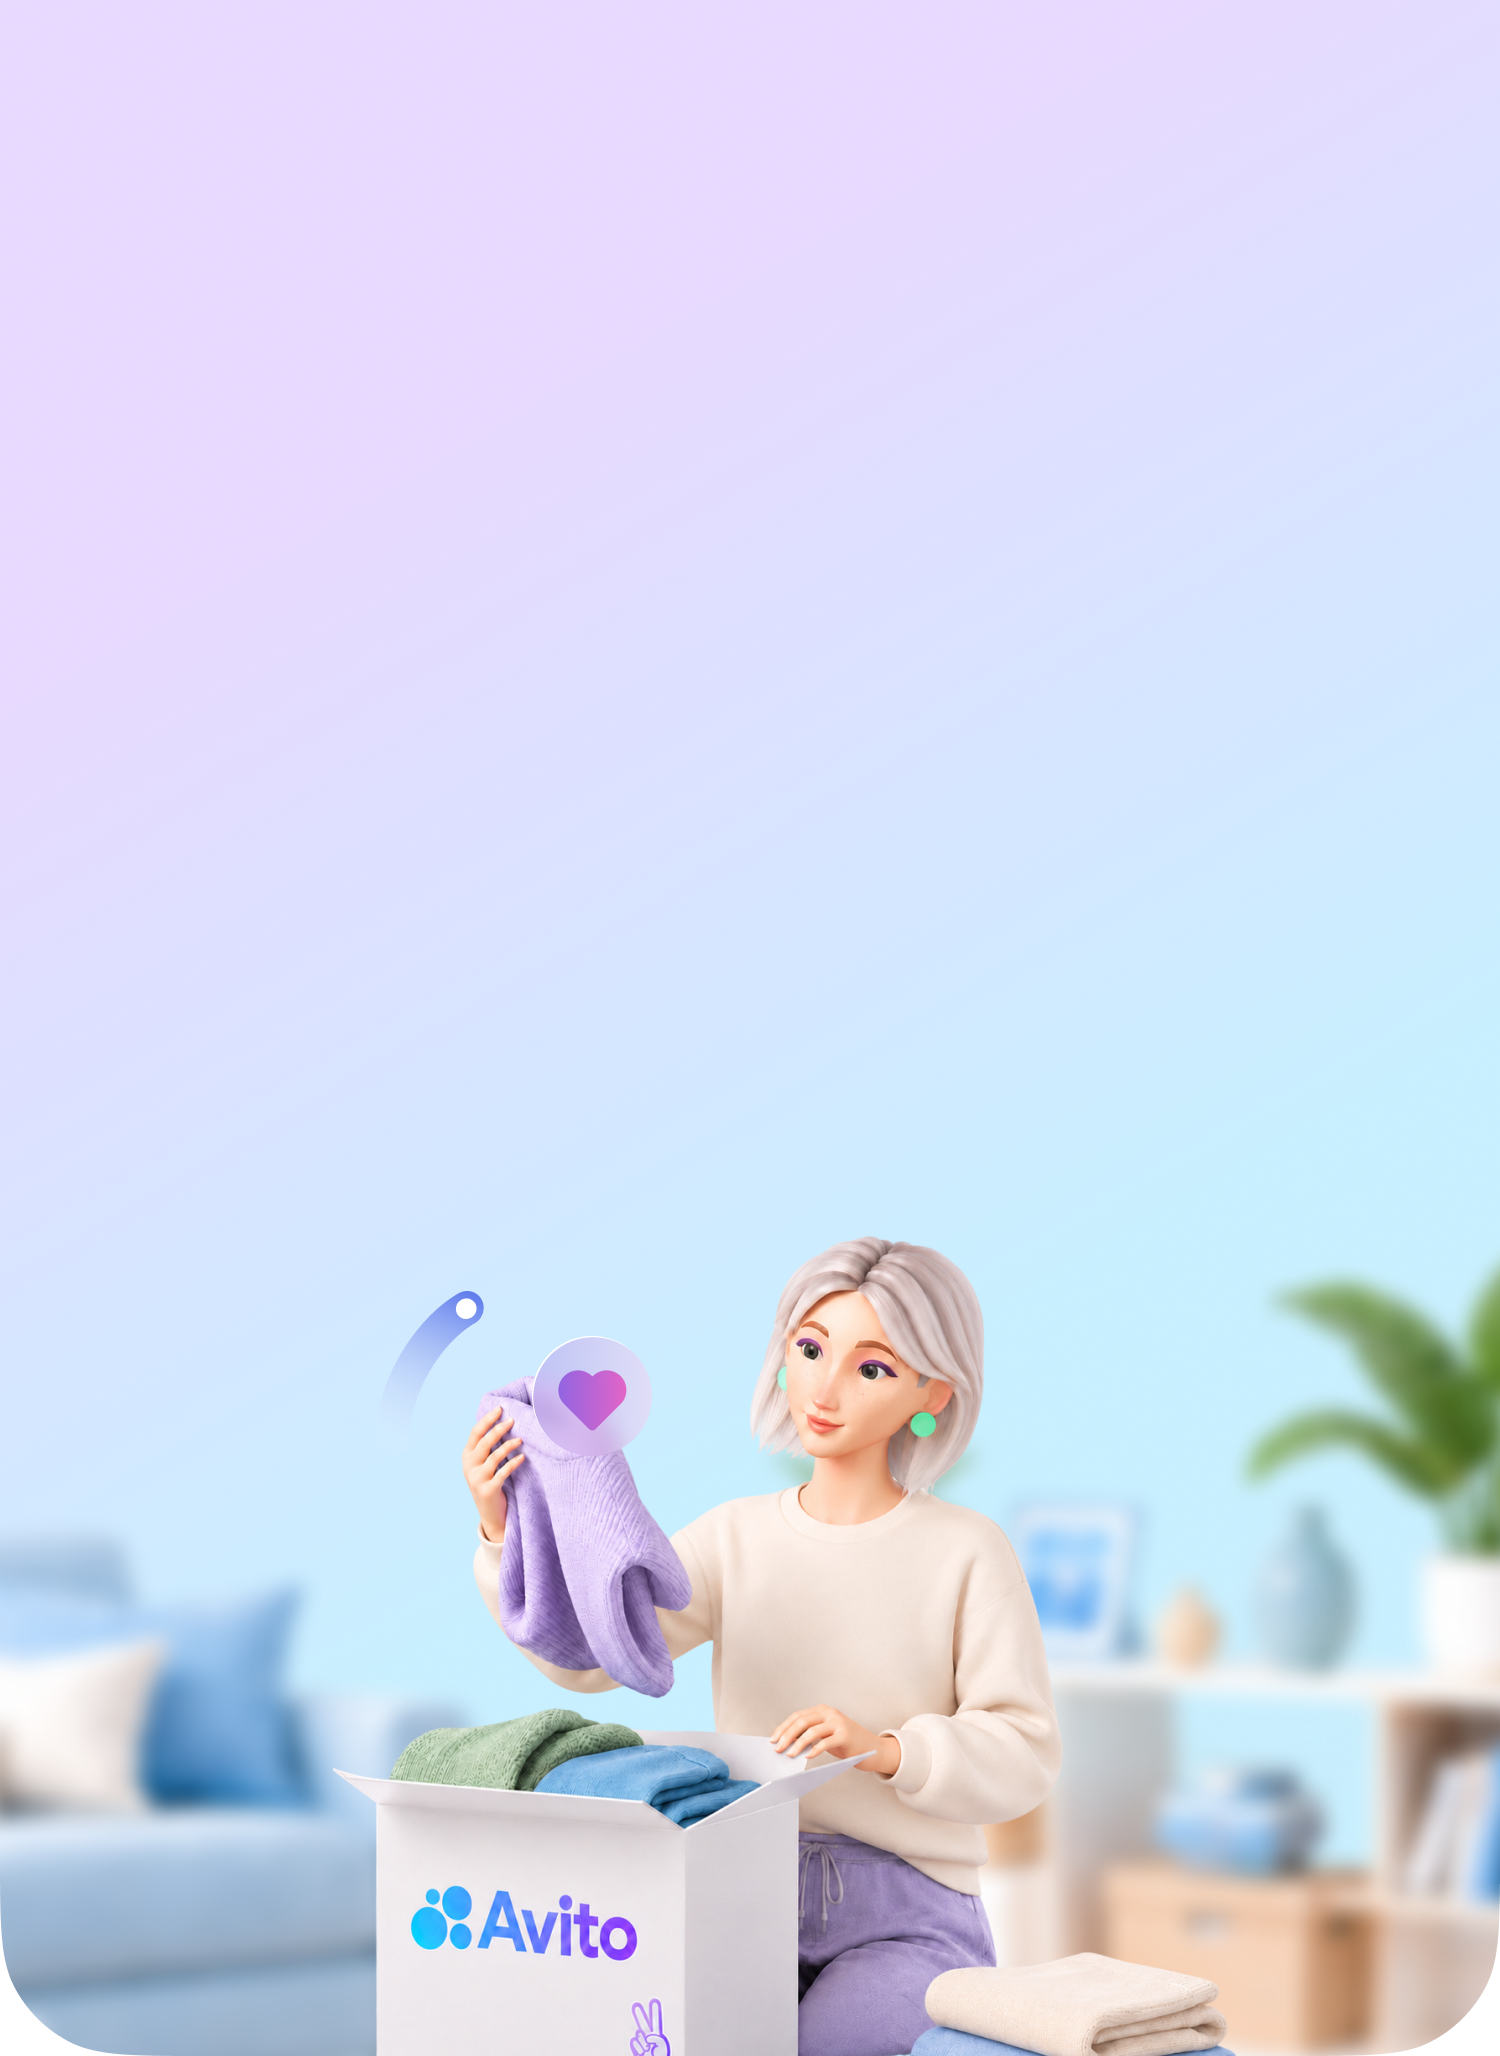
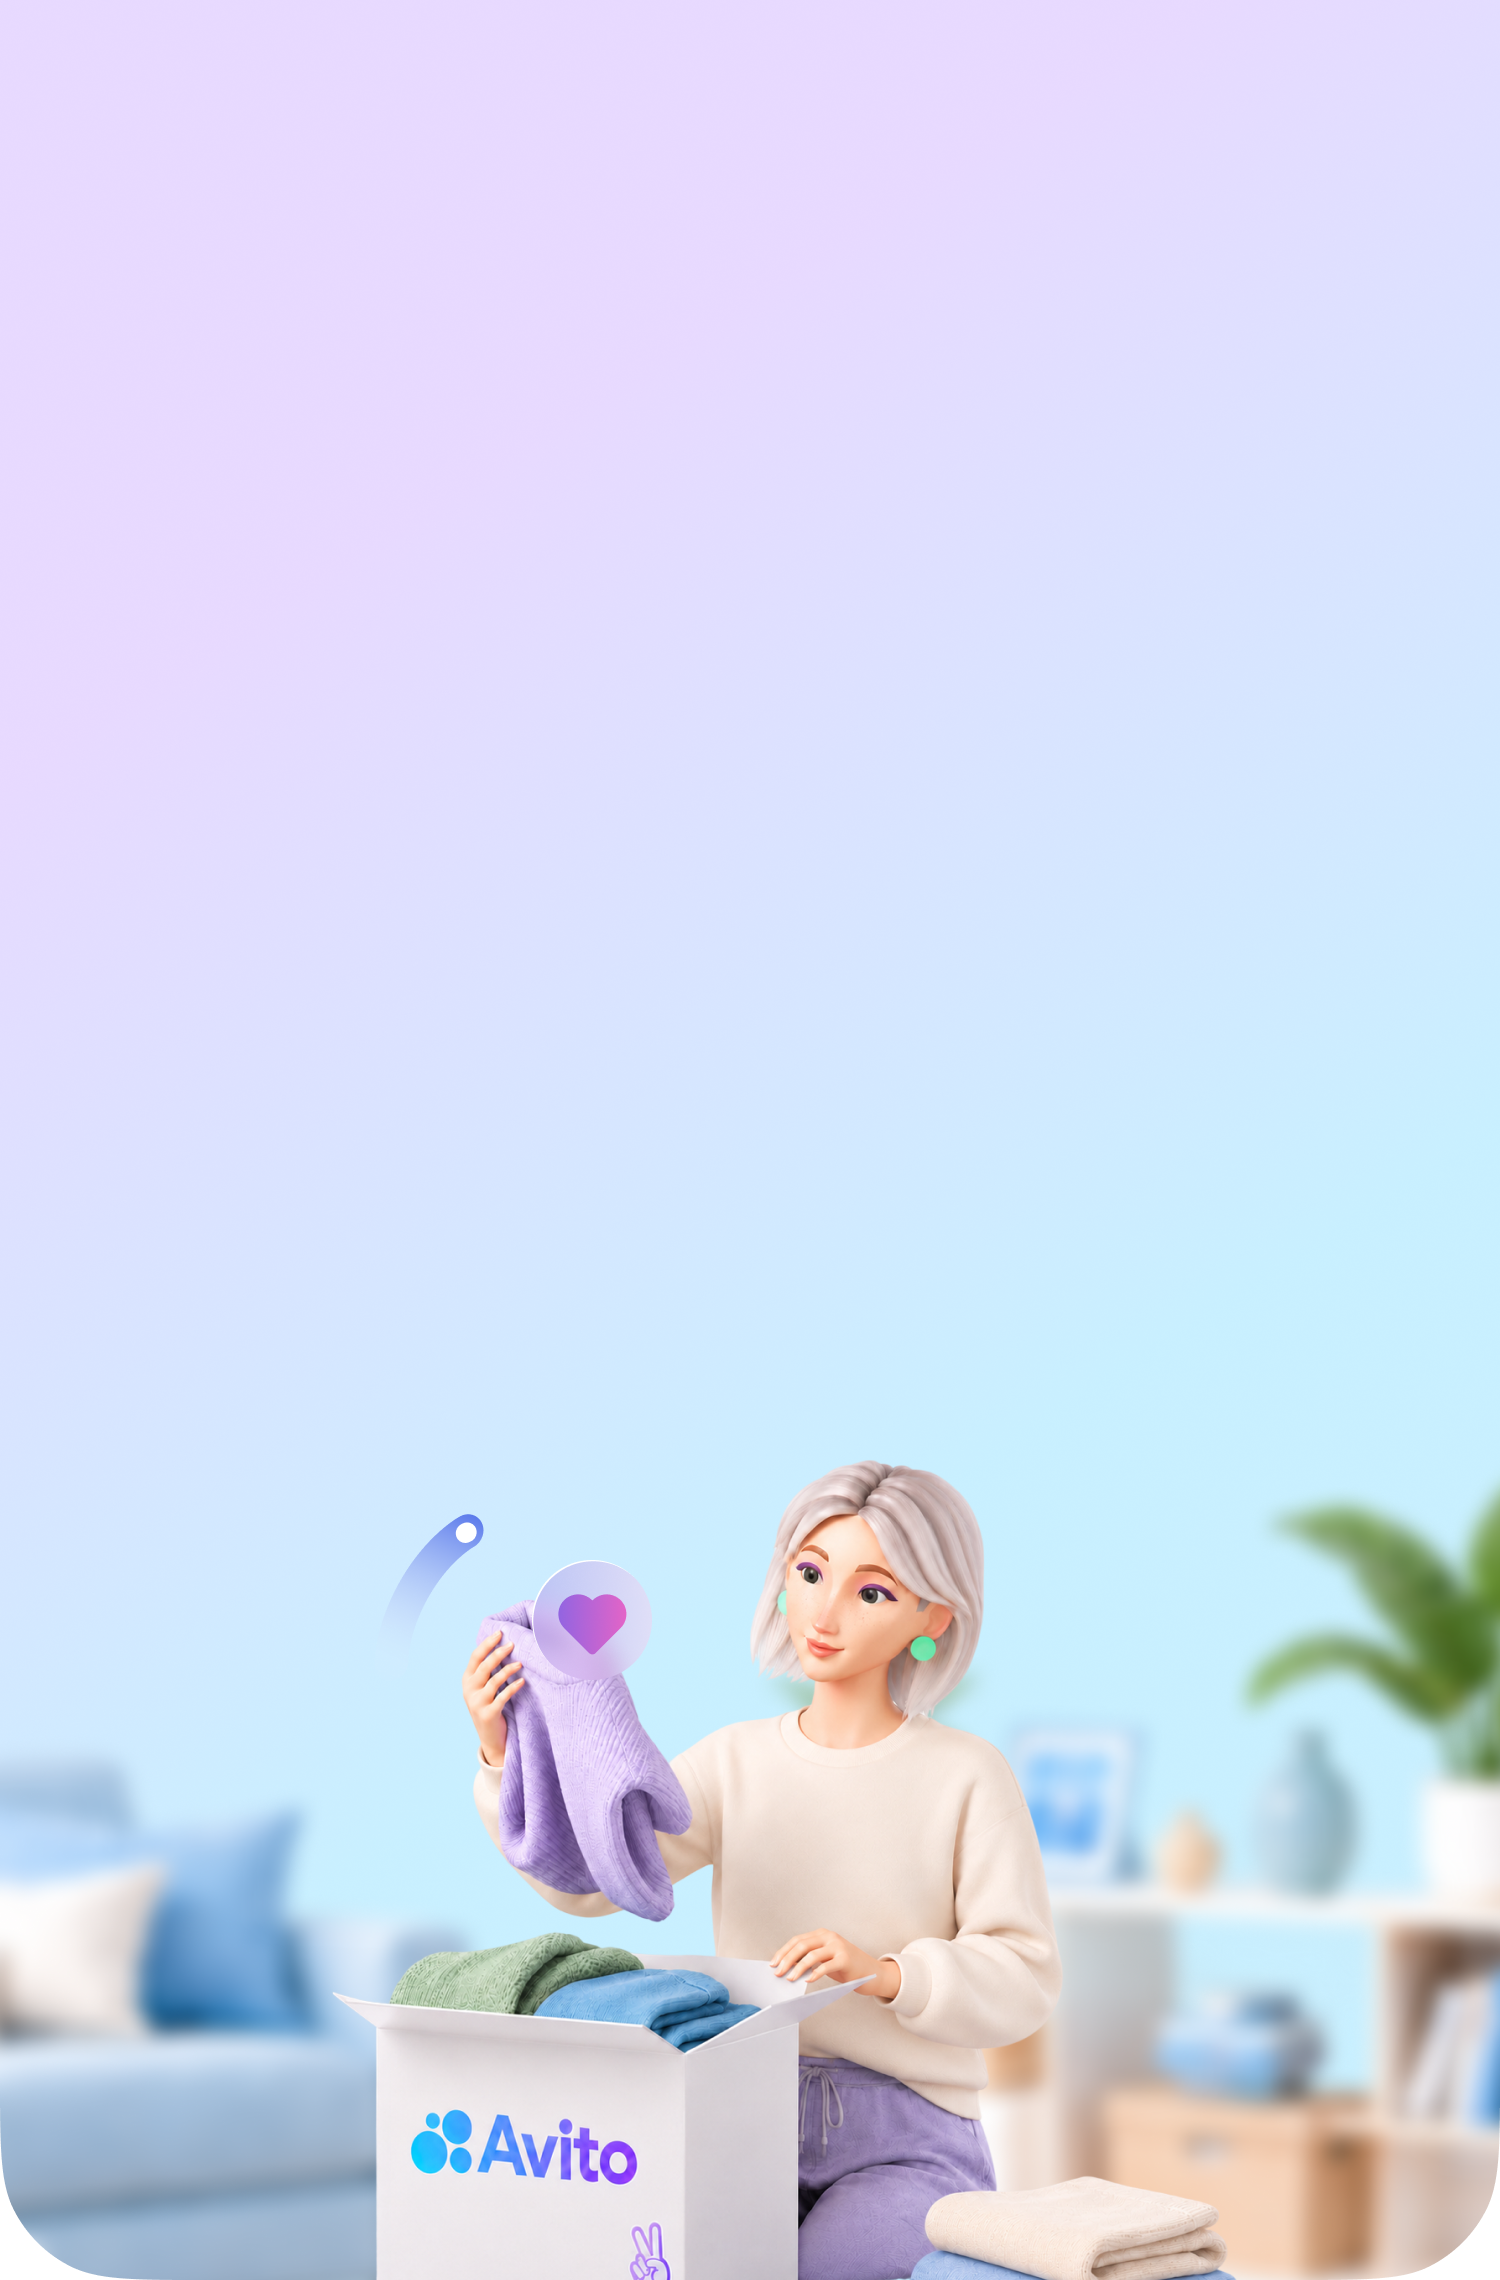
update

Changed region(s): [[0.0, 0.5914, 1.0, 0.9961], [0.4293, 0.965, 0.46, 0.9961]]

diff --git a/step5-crisis.html b/step5-crisis.html
@@ -1196,6 +1196,10 @@
             font-weight: 700;
             line-height: 22px;
             color: #000;
+            display: -webkit-box;
+            -webkit-line-clamp: 2;
+            -webkit-box-orient: vertical;
+            overflow: hidden;
         }
 
         .cat-sub-text {
@@ -1822,7 +1826,7 @@
     </header>
 
     <section class="hero">
-        <img class="hero-bg" src="new podacha/banner podacha.png?v=2" alt="">
+        <img class="hero-bg" src="new podacha/banner podacha.png?v=3" alt="">
         <div class="hero-content">
             <h1 class="intro-title">Передавайте вещи благотворительным фондам</h1>
             <p class="intro-subtitle">Проверьте данные бесплатного объявления и выберите вещи, которые хотите положить в благотворительный пакет</p>
@@ -2316,13 +2320,20 @@
             // Fund 1 — РКК
             1: 'new podacha/fond 1 photo 1.png',
             2: 'new podacha/fond 1 photo 2.png',
-            // Fund 2 — Ночлежка
+            // Fund 2 — Ночлежка (new IDs from step2-choose)
+            3: 'new podacha/fond 2 photo 1.png',
+            4: 'new podacha/fond 2 photo 2.png',
+            // Fund 3 — Миллион книг
+            5: 'new podacha/fond 3 photo 1.png',
+            6: 'new podacha/fond 3 photo 2.png',
+            // Fund 4 — Дари надежду
+            7: 'new podacha/fond 4 photo 1.png',
+            8: 'new podacha/fond 4 photo 2.png',
+            // Legacy IDs (kept for backward compat)
             9: 'new podacha/fond 2 photo 1.png',
             15: 'new podacha/fond 2 photo 2.png',
-            // Fund 3 — Миллион книг
             11: 'new podacha/fond 3 photo 1.png',
             12: 'new podacha/fond 3 photo 2.png',
-            // Fund 4 — Дари надежду
             16: 'new podacha/fond 4 photo 1.png',
             10: 'new podacha/fond 4 photo 2.png',
         };
@@ -2737,13 +2748,14 @@
             });
 
             const hasPhotos = JSON.parse(sessionStorage.getItem('initialPackCategories') || '[]').length > 0;
+            const userPickedFund = !!sessionStorage.getItem('userPickedFund');
 
-            document.getElementById('pack-subtitle').style.display = hasPhotos ? '' : 'none';
-            document.getElementById('pack-subtitle-empty').style.display = hasPhotos ? 'none' : '';
+            document.getElementById('pack-subtitle').style.display = (hasPhotos && !userPickedFund) ? '' : 'none';
+            document.getElementById('pack-subtitle-empty').style.display = (!hasPhotos || userPickedFund) ? '' : 'none';
             const addMoreTitle = document.getElementById('add-more-title');
             const addMoreSub = document.getElementById('add-more-sub');
-            if (addMoreTitle) addMoreTitle.style.display = hasPhotos ? '' : 'none';
-            if (addMoreSub) addMoreSub.style.display = hasPhotos ? '' : 'none';
+            if (addMoreTitle) addMoreTitle.style.display = (hasPhotos && !userPickedFund) ? '' : 'none';
+            if (addMoreSub) addMoreSub.style.display = (hasPhotos && !userPickedFund) ? '' : 'none';
 
             // Main pack cards
             const packCards = document.getElementById('pack-cards');

diff --git a/landing.html b/landing.html
@@ -41,9 +41,16 @@
         .landing-hero {
             background: linear-gradient(180deg, #C9DAFF 0%, #DCCEFF 100%);
             padding-top: 72px;
+            display: grid;
+        }
+        .landing-hero > * {
+            grid-column: 1;
+            grid-row: 1;
         }
         .landing-hero-text {
+            align-self: start;
             padding: 0 16px 20px;
+            z-index: 1;
         }
         .landing-title {
             font-size: 32px;
@@ -75,6 +82,7 @@
         .landing-hero-img {
             width: 100%;
             display: block;
+            align-self: end;
         }
 
         /* ── HOW TO GET HELP ── */
@@ -281,13 +289,14 @@
         }
 
         .filter-section {
-            margin-bottom: 24px;
+            margin-bottom: 28px;
         }
         .filter-section-title {
             font-size: 18px;
             font-weight: 700;
             color: #1A1A1A;
-            margin-bottom: 12px;
+            margin-bottom: 14px;
+            padding-top: 4px;
         }
         .filter-dropdown {
             width: 100%;
@@ -327,10 +336,10 @@
         .filter-chip {
             background: #F2F2F2;
             border: none;
-            border-radius: 12px;
-            padding: 8px 14px;
+            border-radius: 14px;
+            padding: 12px 18px;
             font-family: 'Inter', sans-serif;
-            font-size: 14px;
+            font-size: 15px;
             font-weight: 400;
             color: #1A1A1A;
             cursor: pointer;
@@ -819,6 +828,7 @@
             document.querySelectorAll('.filter-chip.active').forEach(c => c.classList.remove('active'));
             setSort('default');
             document.getElementById('filter-submit').textContent = 'Показать 229 объявлений';
+            renderListings('all');
         }
 
         // Init

diff --git a/fond-choose.html b/fond-choose.html
@@ -241,6 +241,8 @@
 
         function selectFund() {
             sessionStorage.setItem('selectedFundId', String(selectedId));
+            sessionStorage.setItem('userPickedFund', '1');
+            sessionStorage.removeItem('initialPackCategories');
             window.location.href = 'step5-crisis.html';
         }
 